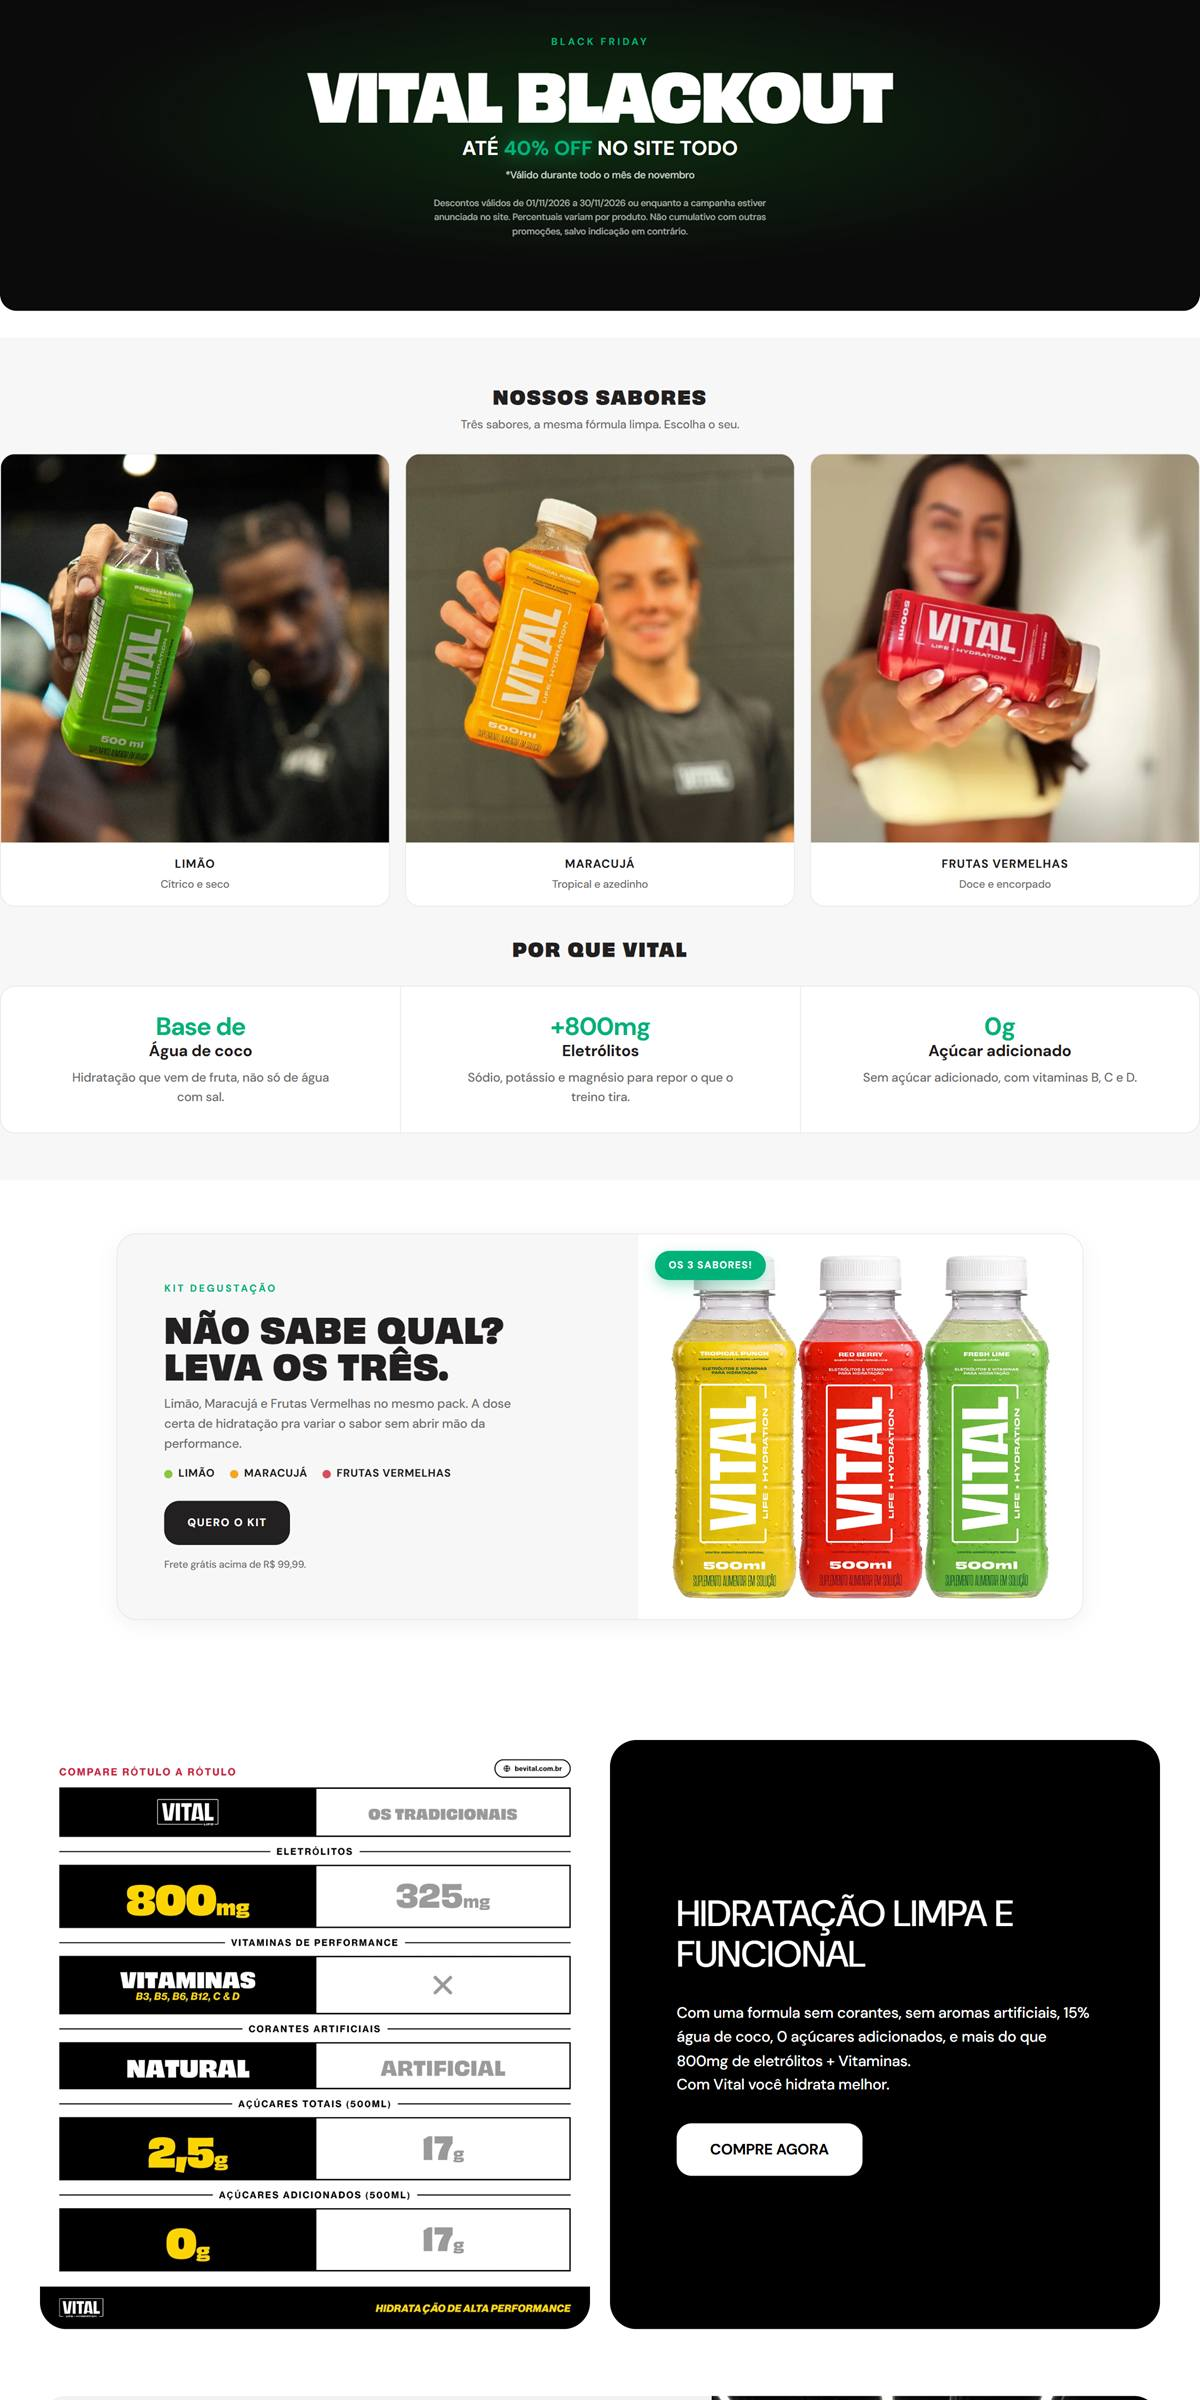
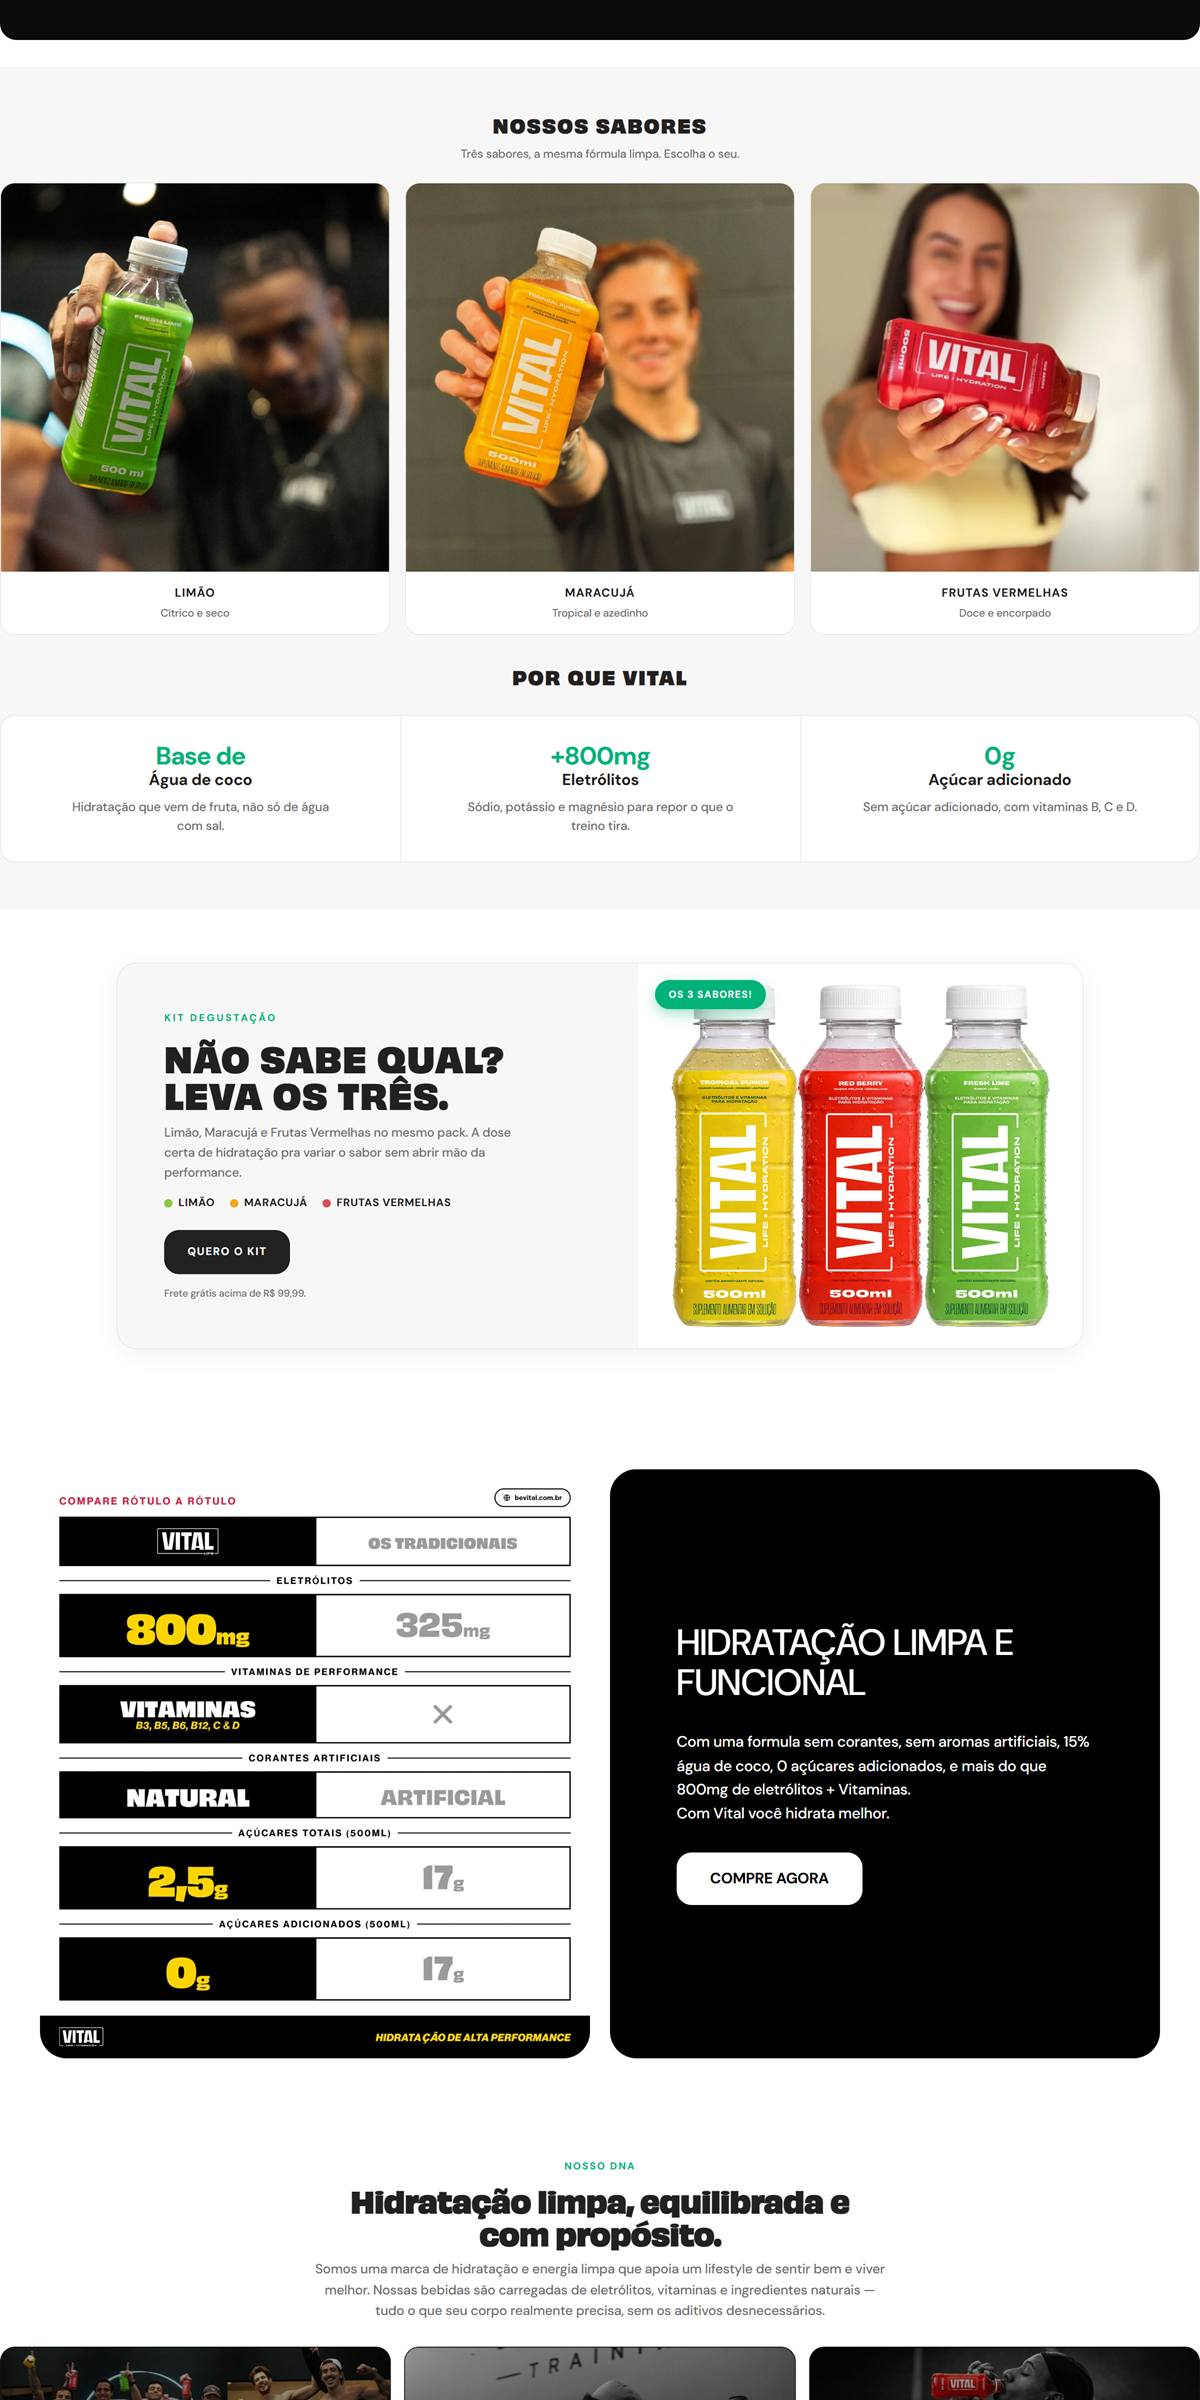
Prévia da VITAL atualizada com a loja de hoje
Pedido de 06/11/2026: ele atualizou a loja, e a prévia passa a mostrar a
home como está agora, no celular (7 partes) e no computador (4 partes).

A primeira foto do celular saiu no segundo slide do banner do topo. O
carrossel da VITAL é do tema Impact, da Shopify, e não é Swiper: o
captura-previa.js só voltava ao primeiro slide os Swiper. Agora ele também
para o giro e volta ao primeiro slide os slideshow-carousel e
effect-carousel desse tema. A foto do celular foi refeita com isso, e os
dois aparelhos mostram a Black Friday, o primeiro slide.

diff --git a/captura-previa.js b/captura-previa.js
@@ -185,6 +185,20 @@ async function preparaPagina(page) {
       } catch (e) { /* carrossel sem instância útil: fica como está */ }
     });
 
+    /* carrossel de tema Shopify que não é Swiper (o Impact, da VITAL): o elemento
+       tem select() e um player do giro. Sem isto, a foto do celular de 06/11/2026
+       saiu no segundo slide. Com animate:false o tema solta um erro de animação
+       depois de trocar o slide; a troca vale, e o erro fica no catch. */
+    document.querySelectorAll('slideshow-carousel, effect-carousel').forEach(c => {
+      try {
+        if (c.player) (c.player.stop || c.player.pause).call(c.player);
+        if (typeof c.select === 'function' && c.selectedIndex) {
+          const p = c.select(0, { animate: false });
+          if (p && p.catch) p.catch(() => {});
+        }
+      } catch (e) { /* carrossel sem select útil: fica como está */ }
+    });
+
     /* vídeo da própria loja: fica no quadro em que está, para a emenda não pegar dois */
     document.querySelectorAll('video').forEach(v => { try { v.pause(); } catch (e) { /* segue */ } });
   });

diff --git a/assets/js/dados.js b/assets/js/dados.js
@@ -306,11 +306,12 @@ const PROJETOS = [
      tema "Speed"). Home recapturada em 28/10/2026, já com a Black Friday,
      no primeiro slide do carrossel do topo. Projeto ativo: a Black Friday é
      ajuste do próprio estúdio (confirmado em 31/10/2026), não alteração do
-     cliente. */
+     cliente. Recapturada de novo em 06/11/2026, a pedido, depois de ele
+     atualizar a loja (home com layout novo). */
   { id:"vital", nome:"VITAL", tipo:"Otimização", status:"concluido", exibicao:"outras", emDestaque:true,
     plataforma:"Shopify", tema:"", segmento:"Suplementos", ano:"",
     url:"https://bevital.com.br/", capa:"", logo:"",
-    previa:{data:"2026-10-31",paginas:[{nome:"Início",arquivo:"inicio",url:"/",celular:7,computador:4}]},
+    previa:{data:"2026-11-06",paginas:[{nome:"Início",arquivo:"inicio",url:"/",celular:7,computador:4}]},
     resumo:"", desafio:"", entrega:[], resultado:"", imagens:[], depoimento:{autor:"",texto:""} },
 
   /* A prévia no computador passa do teto de 350 KB por parte: sai com
